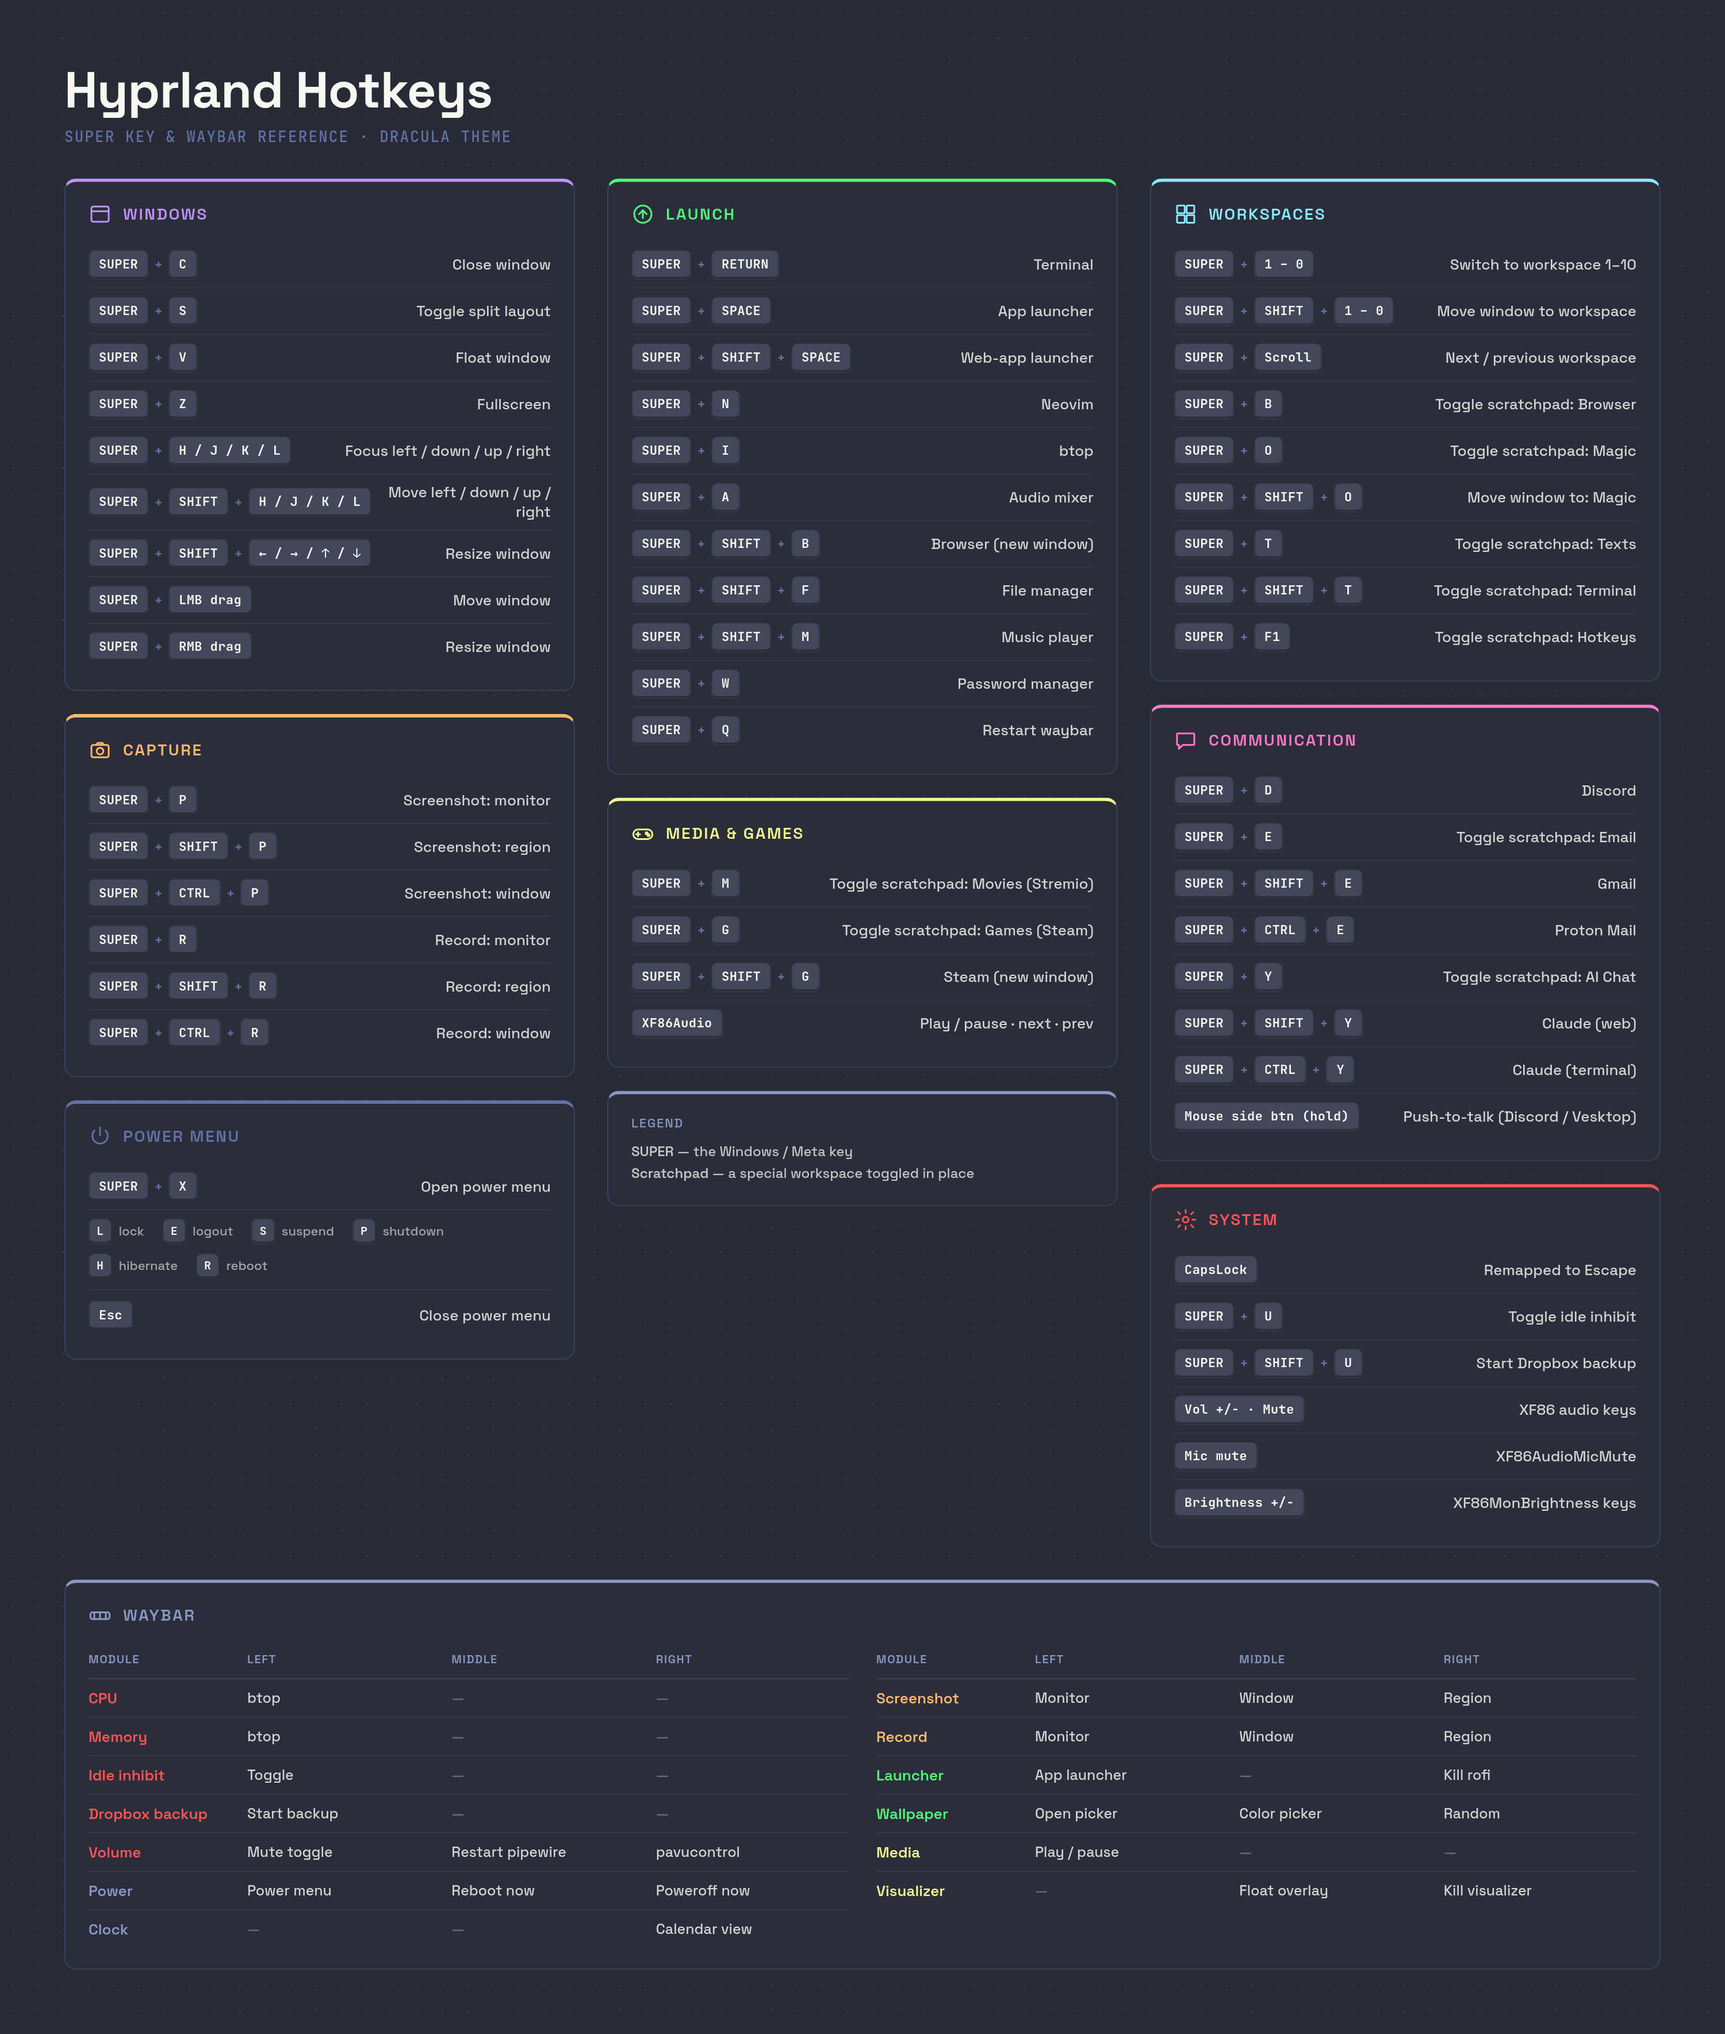
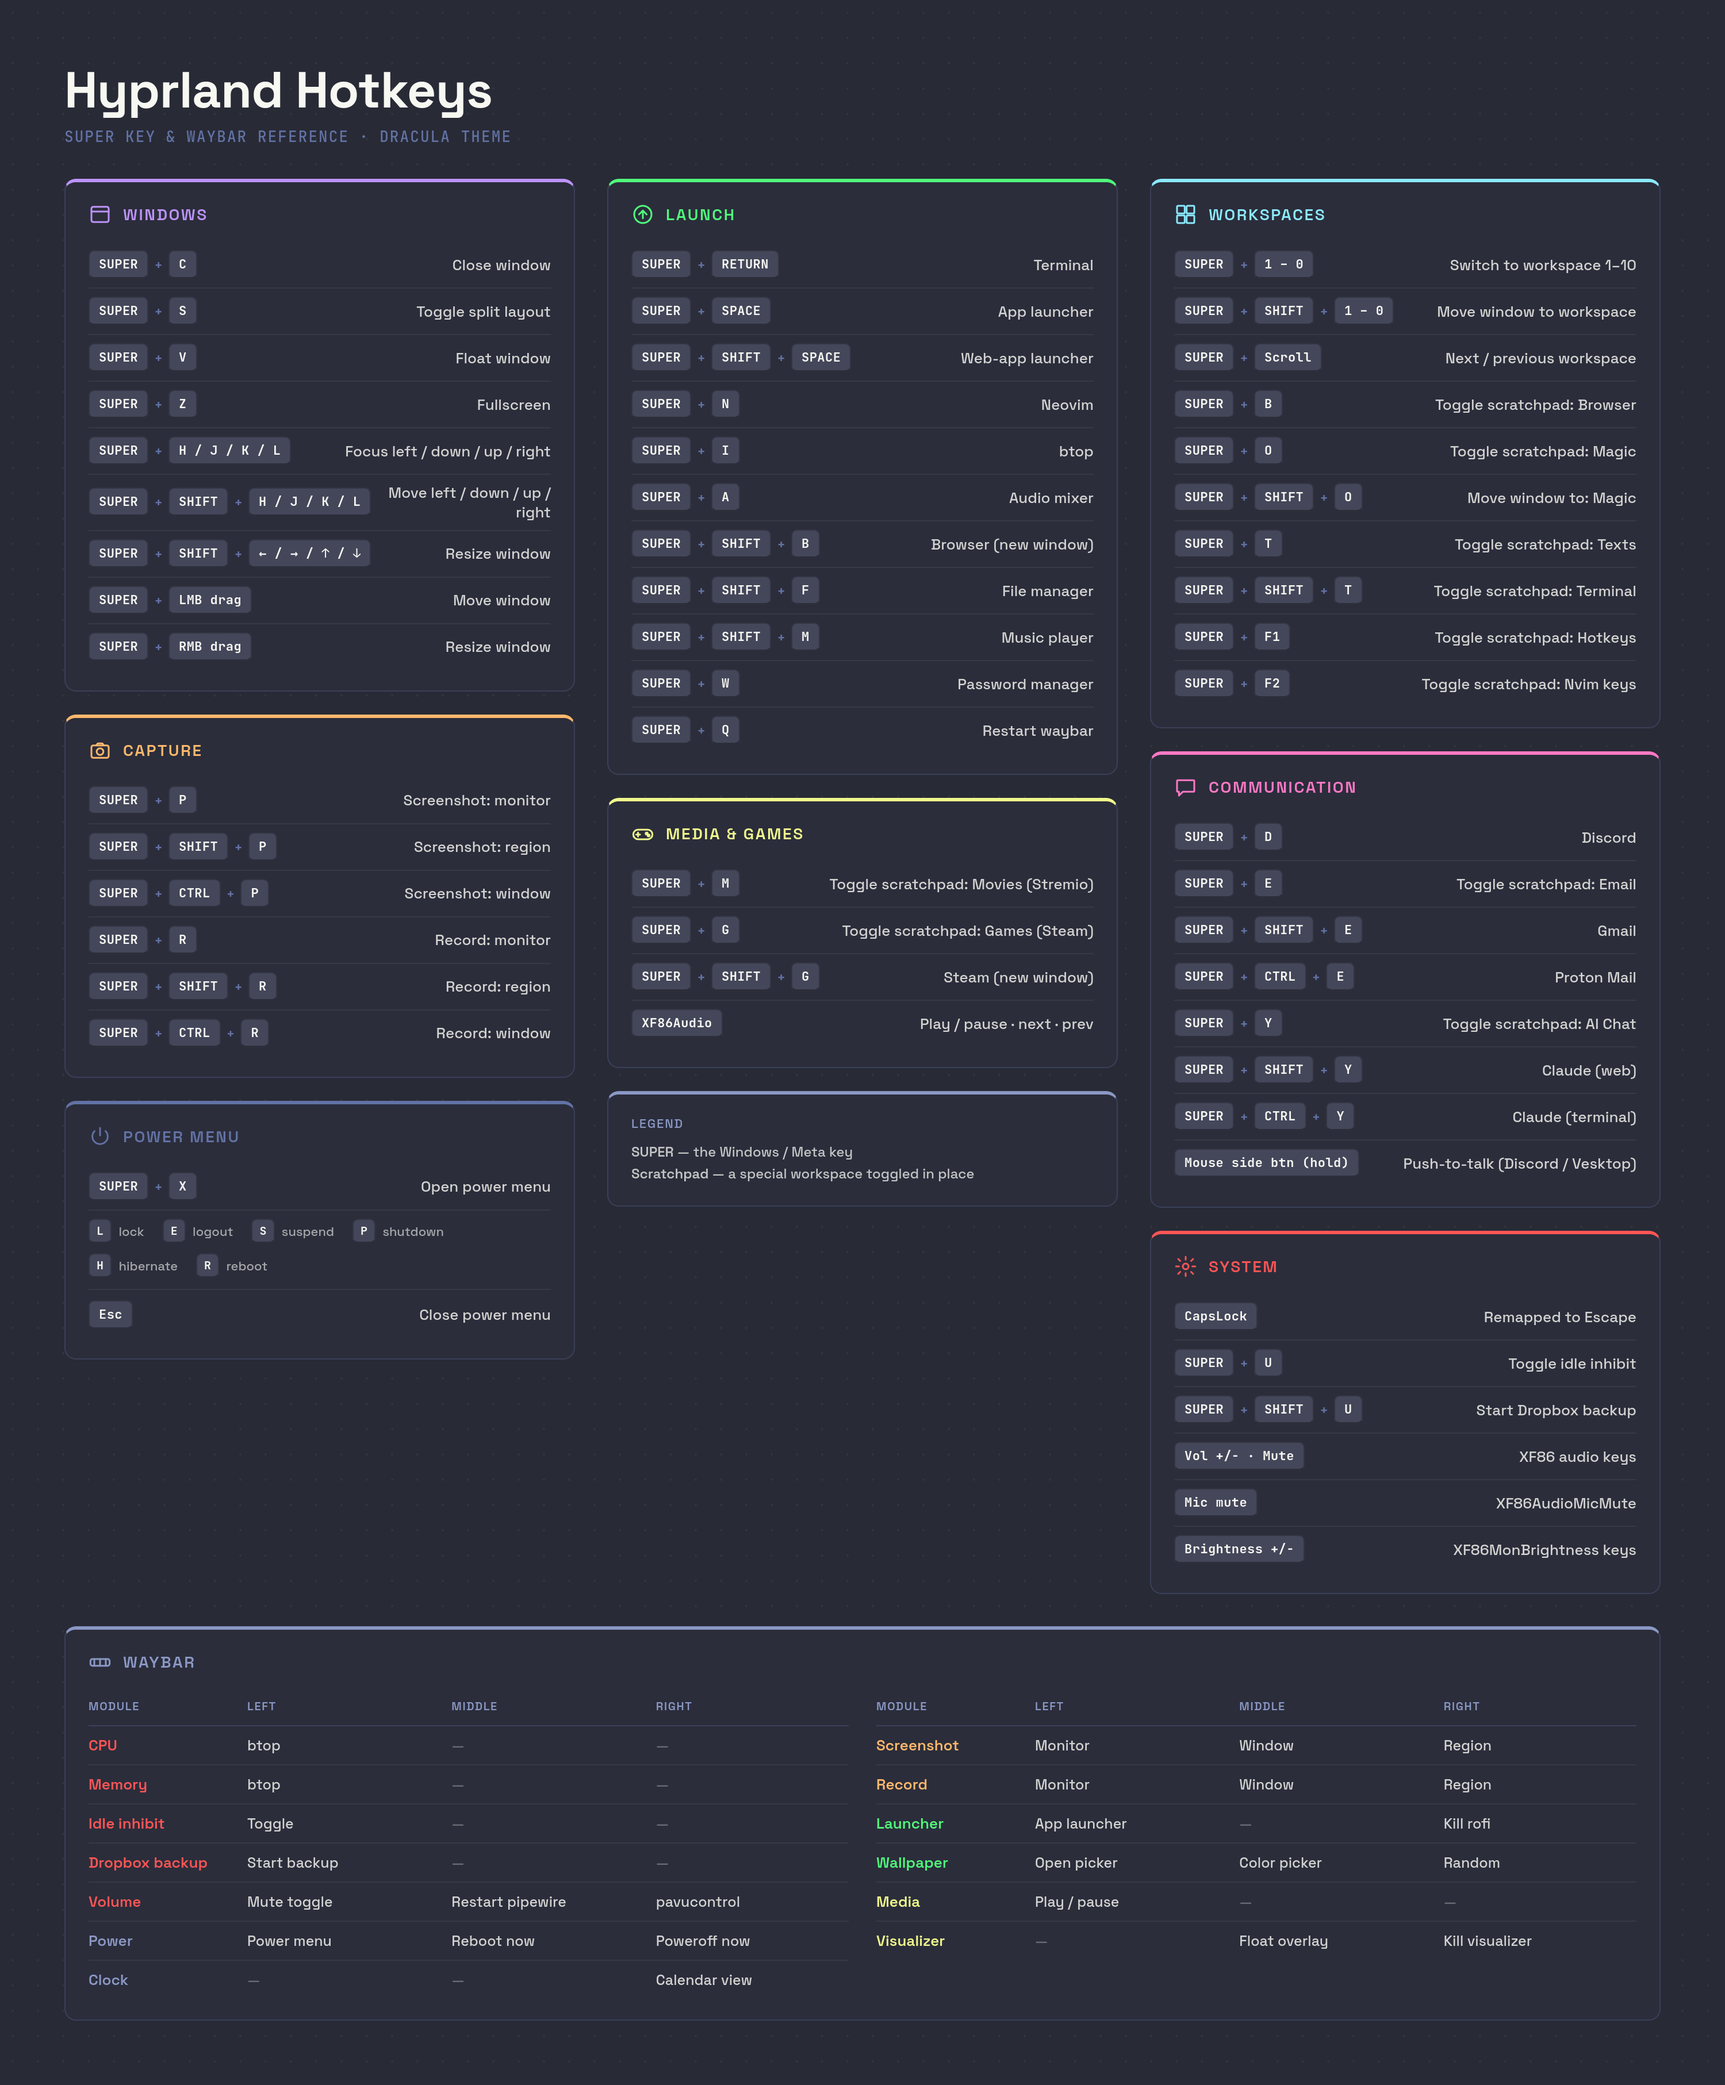
add neovim cheatsheet

diff --git a/README.md b/README.md
@@ -6,6 +6,8 @@ Install notes for this [NixOS](https://nixos.org/) flake. Built on [flake-parts]
 
 ![Hyprland hotkeys](assets/hotkeys-cheatsheet.png)
 
+![Neovim keymaps](assets/nvim-keymaps-cheatsheet.png)
+
 ## Layout
 
 Everything lives under [modules/](./modules), loaded by import-tree — every file is a flake-parts module. `flake.nix` itself is generated (see [Flake inputs](#flake-inputs-flake-file)).
